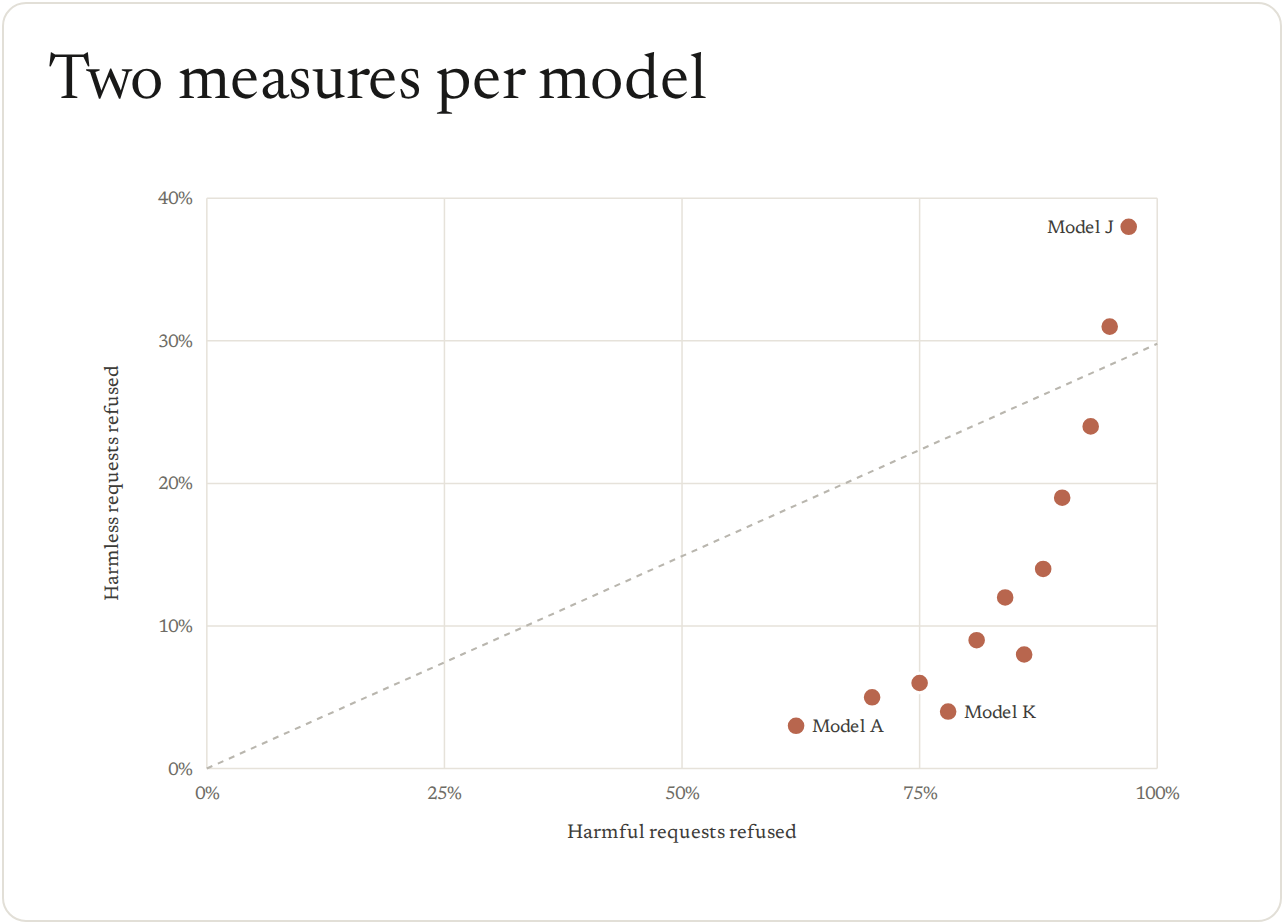
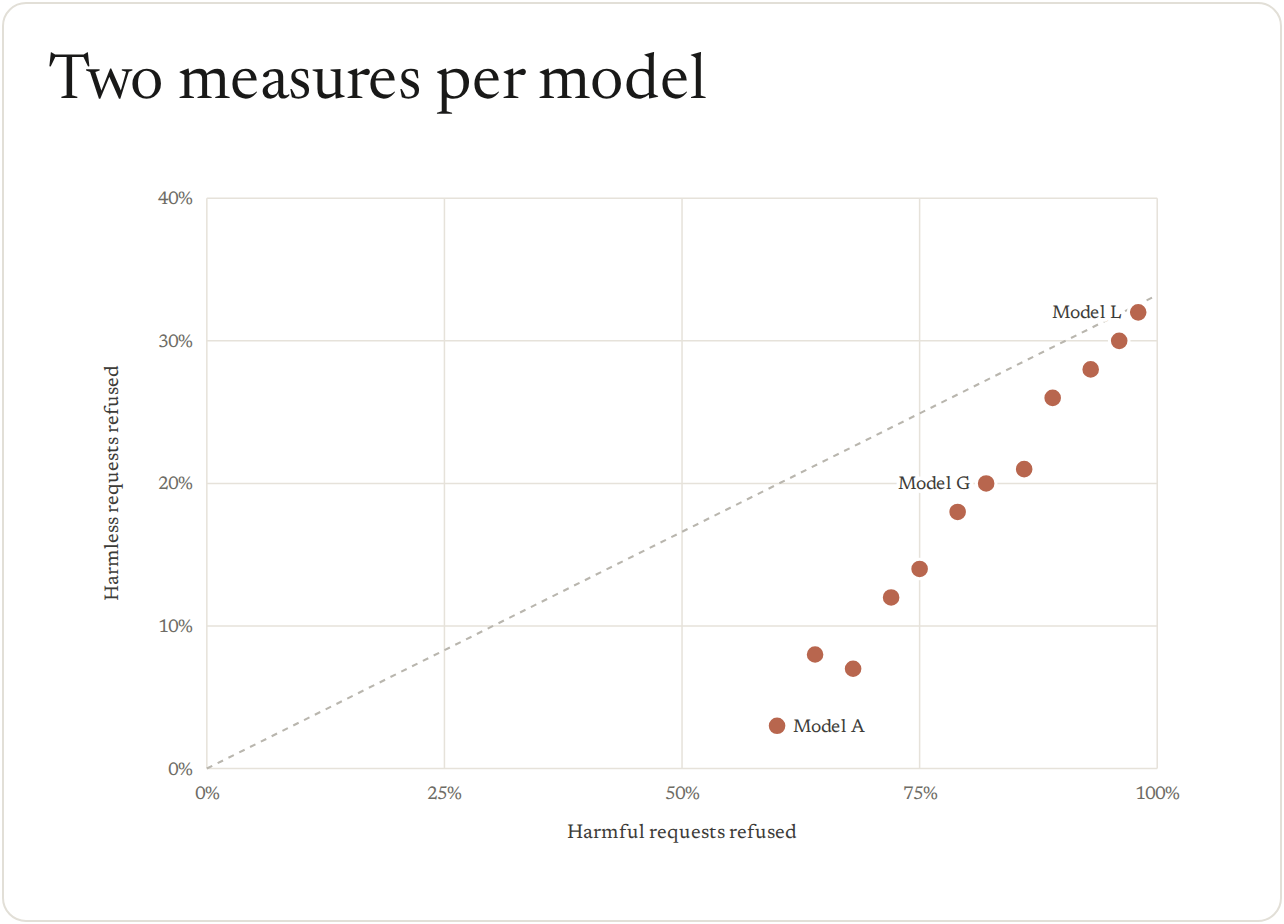
Two-measures template: points that follow the fitted line

diff --git a/examples/12_scatter.py b/examples/12_scatter.py
@@ -6,12 +6,12 @@ import viz
 
 # Per model: the share of harmful requests refused, and the share of harmless requests refused (over-refusal).
 refusals = {
-    "Model A": (62, 3), "Model B": (70, 5), "Model C": (75, 6), "Model D": (81, 9), "Model E": (84, 12),
-    "Model F": (88, 14), "Model G": (90, 19), "Model H": (93, 24), "Model I": (95, 31), "Model J": (97, 38),
-    "Model K": (78, 4), "Model L": (86, 8),
+    "Model A": (60, 3), "Model B": (64, 8), "Model C": (68, 7), "Model D": (72, 12), "Model E": (75, 14),
+    "Model F": (79, 18), "Model G": (82, 20), "Model H": (86, 21), "Model I": (89, 26), "Model J": (93, 28),
+    "Model K": (96, 30), "Model L": (98, 32),
 }
 fig = viz.scatter(
-    refusals, xunit="%", yunit="%", trend="fit", labels=["Model A", "Model J", "Model K"],
+    refusals, xunit="%", yunit="%", trend="fit", labels=["Model A", "Model G", "Model L"],
     xlabel="Harmful requests refused", ylabel="Harmless requests refused",
     title="Models that refused more harmful requests also refused more harmless ones")
 fig.save("12_scatter.png")

diff --git a/examples/README.md b/examples/README.md
@@ -359,12 +359,12 @@ import viz
 
 # Per model: the share of harmful requests refused, and the share of harmless requests refused (over-refusal).
 refusals = {
-    "Model A": (62, 3), "Model B": (70, 5), "Model C": (75, 6), "Model D": (81, 9), "Model E": (84, 12),
-    "Model F": (88, 14), "Model G": (90, 19), "Model H": (93, 24), "Model I": (95, 31), "Model J": (97, 38),
-    "Model K": (78, 4), "Model L": (86, 8),
+    "Model A": (60, 3), "Model B": (64, 8), "Model C": (68, 7), "Model D": (72, 12), "Model E": (75, 14),
+    "Model F": (79, 18), "Model G": (82, 20), "Model H": (86, 21), "Model I": (89, 26), "Model J": (93, 28),
+    "Model K": (96, 30), "Model L": (98, 32),
 }
 fig = viz.scatter(
-    refusals, xunit="%", yunit="%", trend="fit", labels=["Model A", "Model J", "Model K"],
+    refusals, xunit="%", yunit="%", trend="fit", labels=["Model A", "Model G", "Model L"],
     xlabel="Harmful requests refused", ylabel="Harmless requests refused",
     title="Models that refused more harmful requests also refused more harmless ones")
 fig.save("12_scatter.png")
